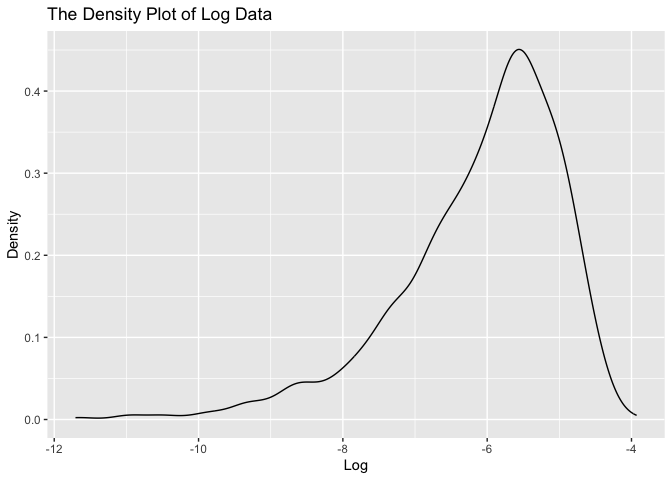
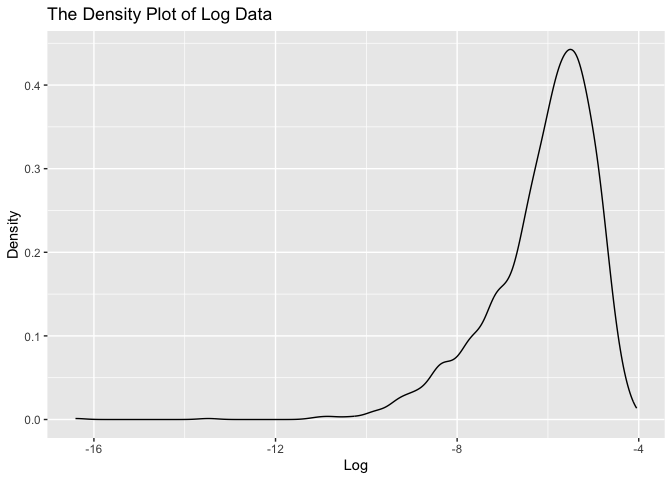
latest version

diff --git a/p8105_hw6_yz4717.md b/p8105_hw6_yz4717.md
@@ -5,20 +5,6 @@ Yang Zhao
 
 ``` r
 library(tidyverse)
-```
-
-    ## ── Attaching core tidyverse packages ──────────────────────── tidyverse 2.0.0 ──
-    ## ✔ dplyr     1.1.3     ✔ readr     2.1.4
-    ## ✔ forcats   1.0.0     ✔ stringr   1.5.0
-    ## ✔ ggplot2   3.4.3     ✔ tibble    3.2.1
-    ## ✔ lubridate 1.9.2     ✔ tidyr     1.3.0
-    ## ✔ purrr     1.0.2     
-    ## ── Conflicts ────────────────────────────────────────── tidyverse_conflicts() ──
-    ## ✖ dplyr::filter() masks stats::filter()
-    ## ✖ dplyr::lag()    masks stats::lag()
-    ## ℹ Use the conflicted package (<http://conflicted.r-lib.org/>) to force all conflicts to become errors
-
-``` r
 library(modelr)
 ```
 
@@ -194,12 +180,12 @@ head(weather_q2_df)
     ## # A tibble: 6 × 3
     ##   .id   r.squared log_data
     ##   <chr>     <dbl>    <dbl>
-    ## 1 0001      0.904    -6.04
-    ## 2 0002      0.906   NaN   
-    ## 3 0003      0.915   NaN   
-    ## 4 0004      0.912    -6.70
-    ## 5 0005      0.894    -5.17
-    ## 6 0006      0.912    -7.14
+    ## 1 0001      0.935   NaN   
+    ## 2 0002      0.915    -6.86
+    ## 3 0003      0.935   NaN   
+    ## 4 0004      0.924   NaN   
+    ## 5 0005      0.926   NaN   
+    ## 6 0006      0.909    -4.92
 
 I use the `bootstrap` to perform resampling.And I conduct the linear
 regression modeling, and various data transformations on the given data
@@ -220,7 +206,7 @@ weather_q2_df |>
 ![](p8105_hw6_yz4717_files/figure-gfm/density_plot_r%5E2-1.png)<!-- -->
 
 As can be seen from the above graph, the distribution is approximately
-normal, with the median of 0.917.
+normal with symmetric tails and the median of 0.917.
 
 After that, I plot the distribution of
 ($log(\hat{\beta_1} * \hat{\beta_2})$)
@@ -234,9 +220,13 @@ weather_q2_df |>
        title = "The Density Plot of Log Data")
 ```
 
-    ## Warning: Removed 3373 rows containing non-finite values (`stat_density()`).
+    ## Warning: Removed 3345 rows containing non-finite values (`stat_density()`).
 
 ![](p8105_hw6_yz4717_files/figure-gfm/density_plot_log-1.png)<!-- -->
+
+From above graph, we can clearly see that it is a left-skewed
+distribution with a long tail on the left. And the center of this
+distribution is between -6 and -5.
 
 - Confidence interval of ${r^2}$ and
   $log(\hat{\beta_1} * \hat{\beta_2})$
@@ -247,11 +237,14 @@ weather_q2_df |>
 quantile(
   pull(weather_q2_df,
        r.squared),
-  probs = c(.025, .975))
+  probs = c(.025, .975)) |> 
+  knitr::kable(col.names = c("95% of CI"))
 ```
 
-    ##      2.5%     97.5% 
-    ## 0.8892818 0.9404700
+|       | 95% of CI |
+|:------|----------:|
+| 2.5%  | 0.8881513 |
+| 97.5% | 0.9402794 |
 
 - Here comes the 95% CI of $log(\hat{\beta_1} * \hat{\beta_2})$
   excluding `NULL` data.
@@ -261,11 +254,14 @@ quantile(
   pull(weather_q2_df,
        log_data),
   probs = c(.025, .975),
-  na.rm = TRUE)
+  na.rm = TRUE) |> 
+  knitr::kable(col.names = c("95% of CI"))
 ```
 
-    ##      2.5%     97.5% 
-    ## -8.892434 -4.562035
+|       | 95% of CI |
+|:------|----------:|
+| 2.5%  | -8.962221 |
+| 97.5% | -4.576014 |
 
 ## Problem 3
 
